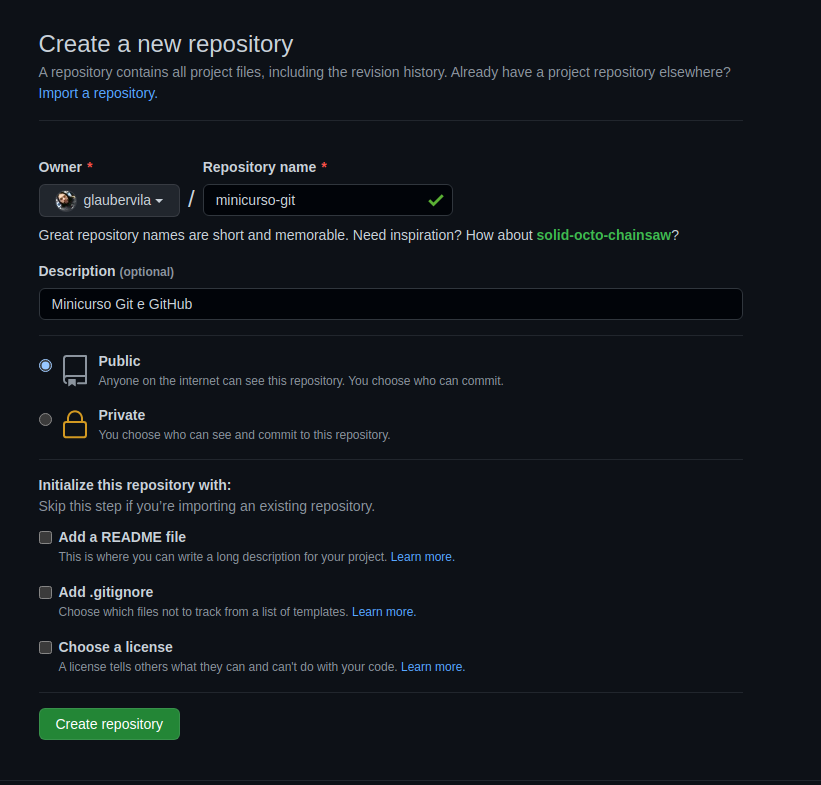
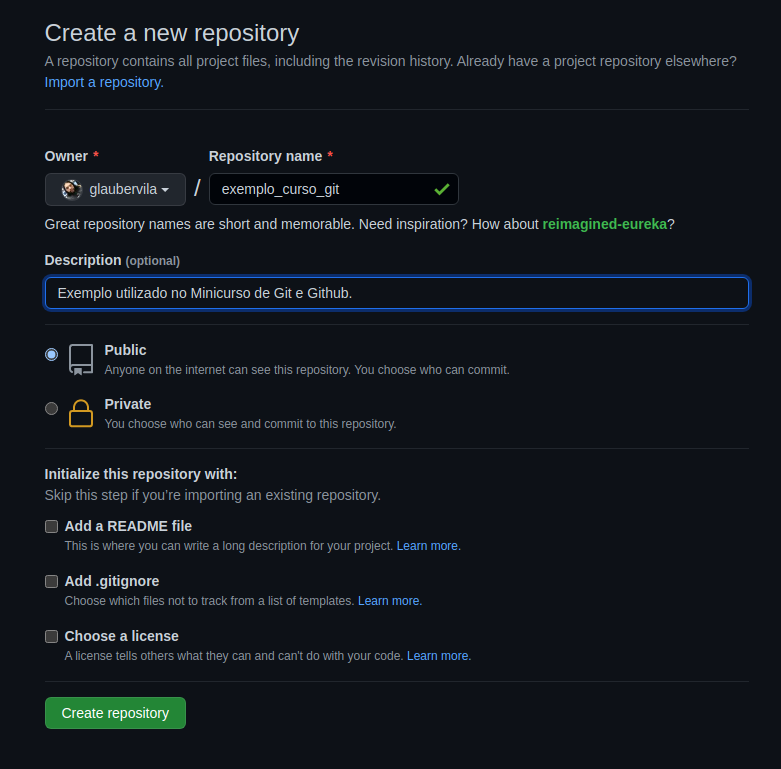
Foi adicionado a seção de criação do repositório no github

diff --git a/README.md b/README.md
@@ -128,7 +128,7 @@ Antes de adicionarmos este arquivo vamos entender quais estados um arquivo pode 
 
 ### Git Add
 
-Este comando server para “adicionar conteúdo” (propor uma mudança qualquer, seja ela alterar, adicionar ou remover um conteúdo) de um arquivo local ao staging area, que terá a mudança confirmada, posteriormente, com o comando git commit, e finalmente enviada ao repositório remoto pelo git push.
+Este comando serve para “adicionar conteúdo” (propor uma mudança qualquer, seja ela alterar, adicionar ou remover um conteúdo) de um arquivo local ao staging area, que terá a mudança confirmada, posteriormente, com o comando git commit, e finalmente enviada ao repositório remoto pelo git push.
 
 Vamos adicionar nosso arquivo README.md com o seguinte comando:
 
@@ -327,6 +327,44 @@ Com esse conjunto de comandos e procedimentos encerramos o ciclo de manipulaçã
 Mas até agora tudo que fizemos está local na nossa maquina, vamos agora enviar esse repositório para um servidor remoto de git no caso o GitHub.
 
 ## GitHub
+
+Primeiro passo é acessar o github com seu usuario e senha, e depois clicar em New, precisamos criar um repositório no servidor do GitHub, durante a criação podemos escolher se o repositório já existe ou se estamos criando um novo.
+
+![github new](images/github_new.png)
+
+Após clicar em New temos essa tela:
+
+![github new 1](images/github_new_repo.png)
+
+Aqui vamos escolher o nome do nosso repositório, se ele é publico ou privado. e se o repositório vai ser iniciado pelo github ou não, no nosso vamos importar o nosso repositório, basta deixar os campos *Add a README file*, *Add .gitignore* e *Choose a license* vazios. e clicar em *Create a Repository*. pronto nosso repositório remoto está criado, e o github vai apresentar uma tela com sugestões de como configurar o repositório remoto no seu repo local.
+
+![github new 1](images/github_new_repo_2.png)
+
+Depois de criar o repositório o github vai sugerir algumas formas de iniciar o seu repositório, como nos já temos um repositório criado vamos usar a opção *Push an existing repository*.
+
+```bash
+git remote add origin https://github.com/glaubervila/exemplo_curso_git.git
+git branch -M main
+git push -u origin main
+```
+
+O primeiro comando é o remote add esse comando vai adicionar um origin remota ao repositório, nada mais é que o endereço deste repositório no servidor de git. Essa agora passa ser a origem deste repositório.
+
+O comando branch -M main é para renomear seu branch master caso não tenha feito ainda.
+
+O comando Push serve para enviar as mudanças locais para o servidor remoto.
+
+![git add remote](images/git_add_remote.png)
+
+Pronto agora nosso repositório local, tem uma copia hospedada no servidor remoto do github, podendo ser acessivel por qualquer pessoa e a partir de qualquer maquina.
+
+Vamos acessar a página do nosso repositório no github, para ver como ficou. o caminho é mesmo endereço da origem sem *.git* do final: *<https://github.com/glaubervila/exemplo_curso_git>*
+
+![github repo home](images/github_home_repo.png)
+
+Explicando um pouco a página do repositório, temos no titulo o nome do repositório e se é publico ou privado. A aba Code mostra qual branch estamos vendo, quantos branchs existem no servidor, abaixo temos os arquivos e pastas do projeto e caso seu projeto tenha um arquivo README.md ele será exibido na página principal do projeto.
+
+É recomendado sempre ter este arquivo, é um arquivo texto escrito com a liguagem Markdown. O github fornece um editor de Markdown que ajuda quem não tem experiencia com esse tipo de marcação. No Readme é interessante ter uma explicação sobre o projeto, para que ele serve, exemplos de como instalar e utilizar.
 
 ## Material de Apoio
 
